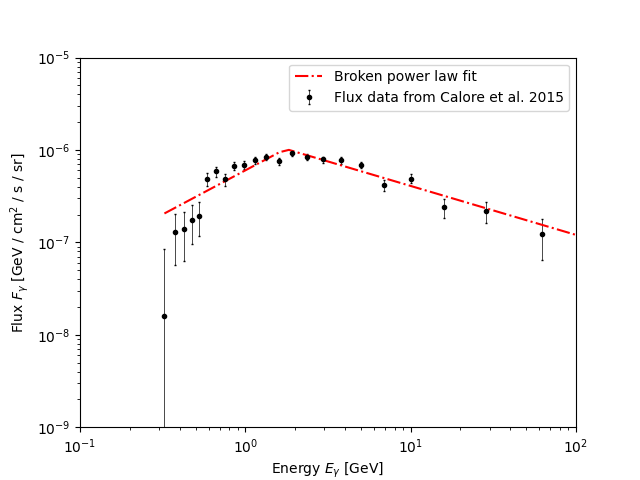
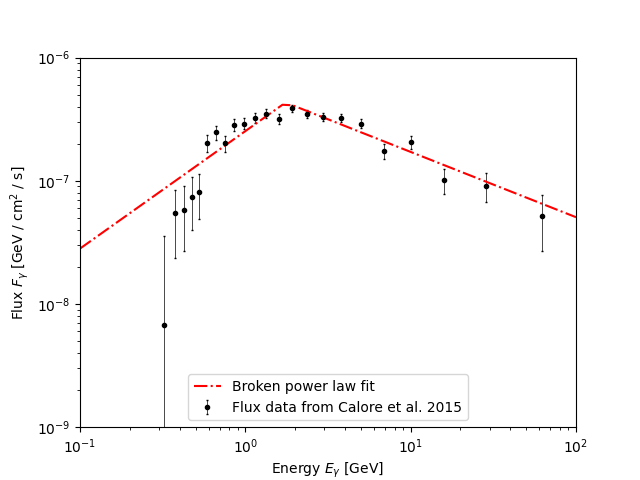
flux in sr units and not

diff --git a/Flux/flux.py b/Flux/flux.py
@@ -11,11 +11,11 @@ import os
 
 #****************************************************************
 #****************************************************************
+#FUNCTIONS
 
-#useful functions
-
-#array broken power law function  (be carefull about exponential renorm)  
-def broken_pl_arr(x, norm, x_b, n1, n2): #norm: normalization, x_b: broken point, n1: 1st part index, n2: 2nd part index               
+def broken_pl_arr(x, norm, x_b, n1, n2):               
+    #array broken power law function  (be carefull about exponential renorm)  
+    #norm: normalization, x_b: broken point, n1: 1st part index, n2: 2nd part index 
     bpl = []
 
     for a in range(0, len(x)):
@@ -28,9 +28,10 @@ def broken_pl_arr(x, norm, x_b, n1, n2): #norm: normalization, x_b: broken point
     
     return np.array(bpl)
 #-------------------------------------------------------
-#broken power law function  (be carefull about exponential renorm)  
 
-def broken_pl(x, norm, x_b, n1, n2):   #norm: normalization, x_b: broken point, n1: 1st part index, n2: 2nd part index               
+def broken_pl(x, norm, x_b, n1, n2):                  
+    #broken power law function  (be carefull about exponential renorm)  
+    #norm: normalization, x_b: broken point, n1: 1st part index, n2: 2nd part index
     frac = x / x_b
     if frac < 1:
         frac = frac**(2-n1)
@@ -41,8 +42,44 @@ def broken_pl(x, norm, x_b, n1, n2):   #norm: normalization, x_b: broken point, 
 #-------------------------------------------------------
 
 def GeVtoerg(x):
+    #convertion from GeV to erg
     return x * 0.00160218
+#-------------------------------------------------------
+def cmtokpc(x):                  
+    #convertion of cm to kpc 
+    return x*3.2407792896664e-22 
+#-------------------------------------------------------
 
+def gNRW2(s, l , b , rs, gamma, rc):    
+    #general Navarro-Frenk-White squared
+    #s: Earth point distance; l, b:  long and lat.; rs:scale radius; gamma: slope; rc:Earth-GC dist.
+    r = np.sqrt(s*s + rc*rc - 2*s*rc*np.cos(l)*np.cos(b))
+    a = (r / rs)**(-2*gamma)
+    b = (1 + r / rs)**(2*(-3+gamma))
+
+    return a * b 
+#-------------------------------------------------------
+
+def sgNRW(s, l , b , rs, gamma, rc):
+    # return s^2 * gNFW function 
+    #ALERT: THE RESULT HAS [s]^2 AS UNIT
+    return (s**2)*gNRW2(s, l , b , rs, gamma, rc)
+
+#****************************************************************************
+#USEFUL VALUES 
+b_min = np.deg2rad(2)              #ROI latitude min value
+b_max = np.deg2rad(20)             #ROI latitude max value 
+l_min = 0                          #ROI long. min value
+l_max = b_max                      #ROI long. max value
+rs = 20            #kpc            #scale radius (gNFW) 
+g = 1.2            #kpc            #gamma-sloper (gNFW) 
+rc = 8.5           #kpc            #Earth-GC distance
+
+#integration over ROI
+num = integrate.nquad(gNRW2, [[1.0e-6 , np.infty], [l_min, l_max], [b_min, b_max]] , args=(rs, g, rc))[0]
+i1 = integrate.quad(np.cos, l_min , l_max)[0]
+i2 = integrate.quad(np.cos, b_min , b_max)[0]
+ang_norm =4*i1*i2 
 #****************************************************************
 #Import data of Calore et al. 2015
 
@@ -72,24 +109,31 @@ m.migrad()
 m.hesse()
 #print(repr(m.params))
 
-en = np.geomspace(d.emeans[0], d.emeans[-1])
-flux_fit = broken_pl_arr(en, *m.values)
+
 #y, ycov = propagate(lambda norm, xb, n1, n2: broken_pl(d.emeans, norm, xb, n1, n2)[1], m.values, m.covariance)
 #****************************************************************
 #Calculation of the total flux
+I = integrate.quad(broken_pl, 0.1, 10, args=tuple(m.values))
 
-I = integrate.quad(broken_pl, 0.1, 10, args=(1.0e-6, 2.06, 1.42, 2.63))
-print("Total Flux =" , I[0], " [GeV/cm^2/s/sr] = ", GeVtoerg(I[0]) , "[erg/cm^2/s/sr]")
+print("Flux (in sr units): \nF_Omega =" , I[0], " [GeV/cm^2/s/sr] = ", GeVtoerg(I[0]) , "[erg/cm^2/s/sr]")
+print("Flux: \nF =" , I[0]*ang_norm, " [GeV/cm^2/s] = ", GeVtoerg(I[0])*ang_norm , "[erg/cm^2/s]")
 
 
 #****************************************************************
-#Plot
+#PLOTS
 
+#Flux in sr units
+x_min = 1.0e-1
+x_max = 1.0e2
+y_min = 1.0e-9
+y_max =1.0e-5
+en = np.geomspace(x_min, x_max)
+flux_fit = broken_pl_arr(en, *m.values)
 fig, ax = plt.subplots()
 
 ax.loglog()
-ax.set_xlim(1.0e-1, 1.0e2)
-ax.set_ylim(1.0e-9, 1.0e-5)
+ax.set_xlim(x_min, x_max)
+ax.set_ylim(y_min, y_max)
 ax.set_xlabel(r'Energy $E_\gamma$ [GeV]')
 ax.set_ylabel(r'Flux $F_\gamma$ [GeV / $\mathregular{cm^2}$ / s / sr]')
 
@@ -98,6 +142,27 @@ color='black', capsize=1, capthick=1,ls='',
 elinewidth=0.5,marker='o',markersize=3, label='Flux data from Calore et al. 2015')
 
 plt.plot(en, flux_fit, color = "red", ls='-.', label = 'Broken power law fit')
+
+plt.legend()
+
+plt.savefig(os.path.join('flux_sr.png'))
+
+#-------------------------------------------------------------------------
+#Flux
+
+fig2, ax2 = plt.subplots()
+
+ax2.loglog()
+ax2.set_xlim(1.0e-1, 1.0e2)
+ax2.set_ylim(1.0e-9, 1.0e-6)
+ax2.set_xlabel(r'Energy $E_\gamma$ [GeV]')
+ax2.set_ylabel(r'Flux $F_\gamma$ [GeV / $\mathregular{cm^2}$ / s]')
+
+ax2 = plt.errorbar(d.emeans,np.multiply(d.flux,ang_norm), yerr = np.multiply(d.flux_err, ang_norm),
+color='black', capsize=1, capthick=1,ls='',
+elinewidth=0.5,marker='o',markersize=3, label='Flux data from Calore et al. 2015')
+
+plt.plot(en, np.multiply(flux_fit, ang_norm), color = "red", ls='-.', label = 'Broken power law fit')
 
 plt.legend()
 
